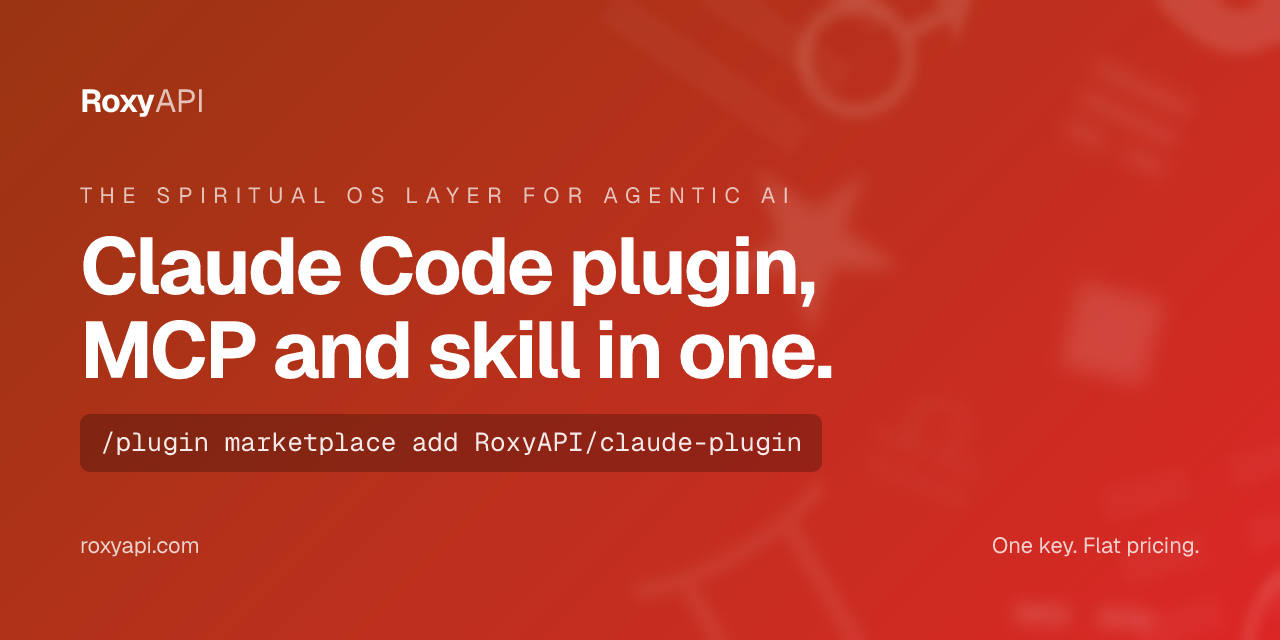
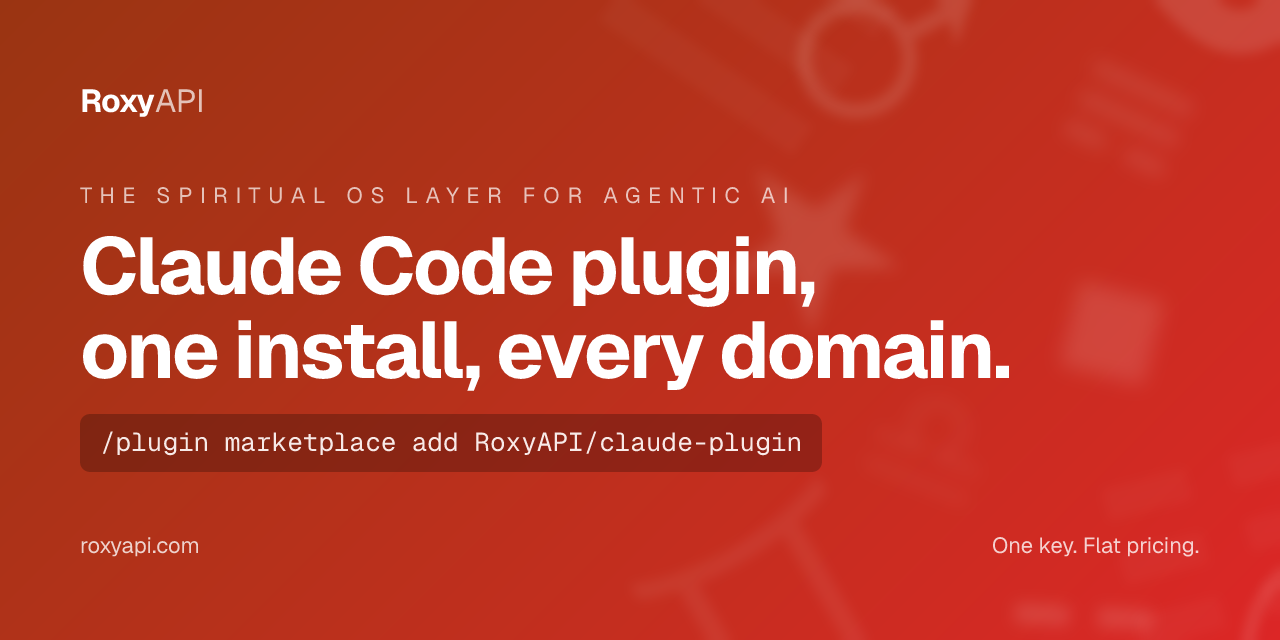
docs: hero promise line sells the outcome

Changed region(s): [[0.0625, 0.5, 0.8125, 0.625]]

diff --git a/README.md b/README.md
@@ -1,6 +1,6 @@
 <p align="center">
   <a href="https://roxyapi.com">
-    <img src="https://raw.githubusercontent.com/RoxyAPI/claude-plugin/main/assets/hero.png" alt="RoxyAPI Claude Code plugin, MCP and skill in one. The Spiritual OS layer for agentic AI. One key, flat pricing." width="100%">
+    <img src="https://raw.githubusercontent.com/RoxyAPI/claude-plugin/main/assets/hero.png" alt="RoxyAPI Claude Code plugin, one install, every domain. The Spiritual OS layer for agentic AI. One key, flat pricing." width="100%">
   </a>
 </p>
 
